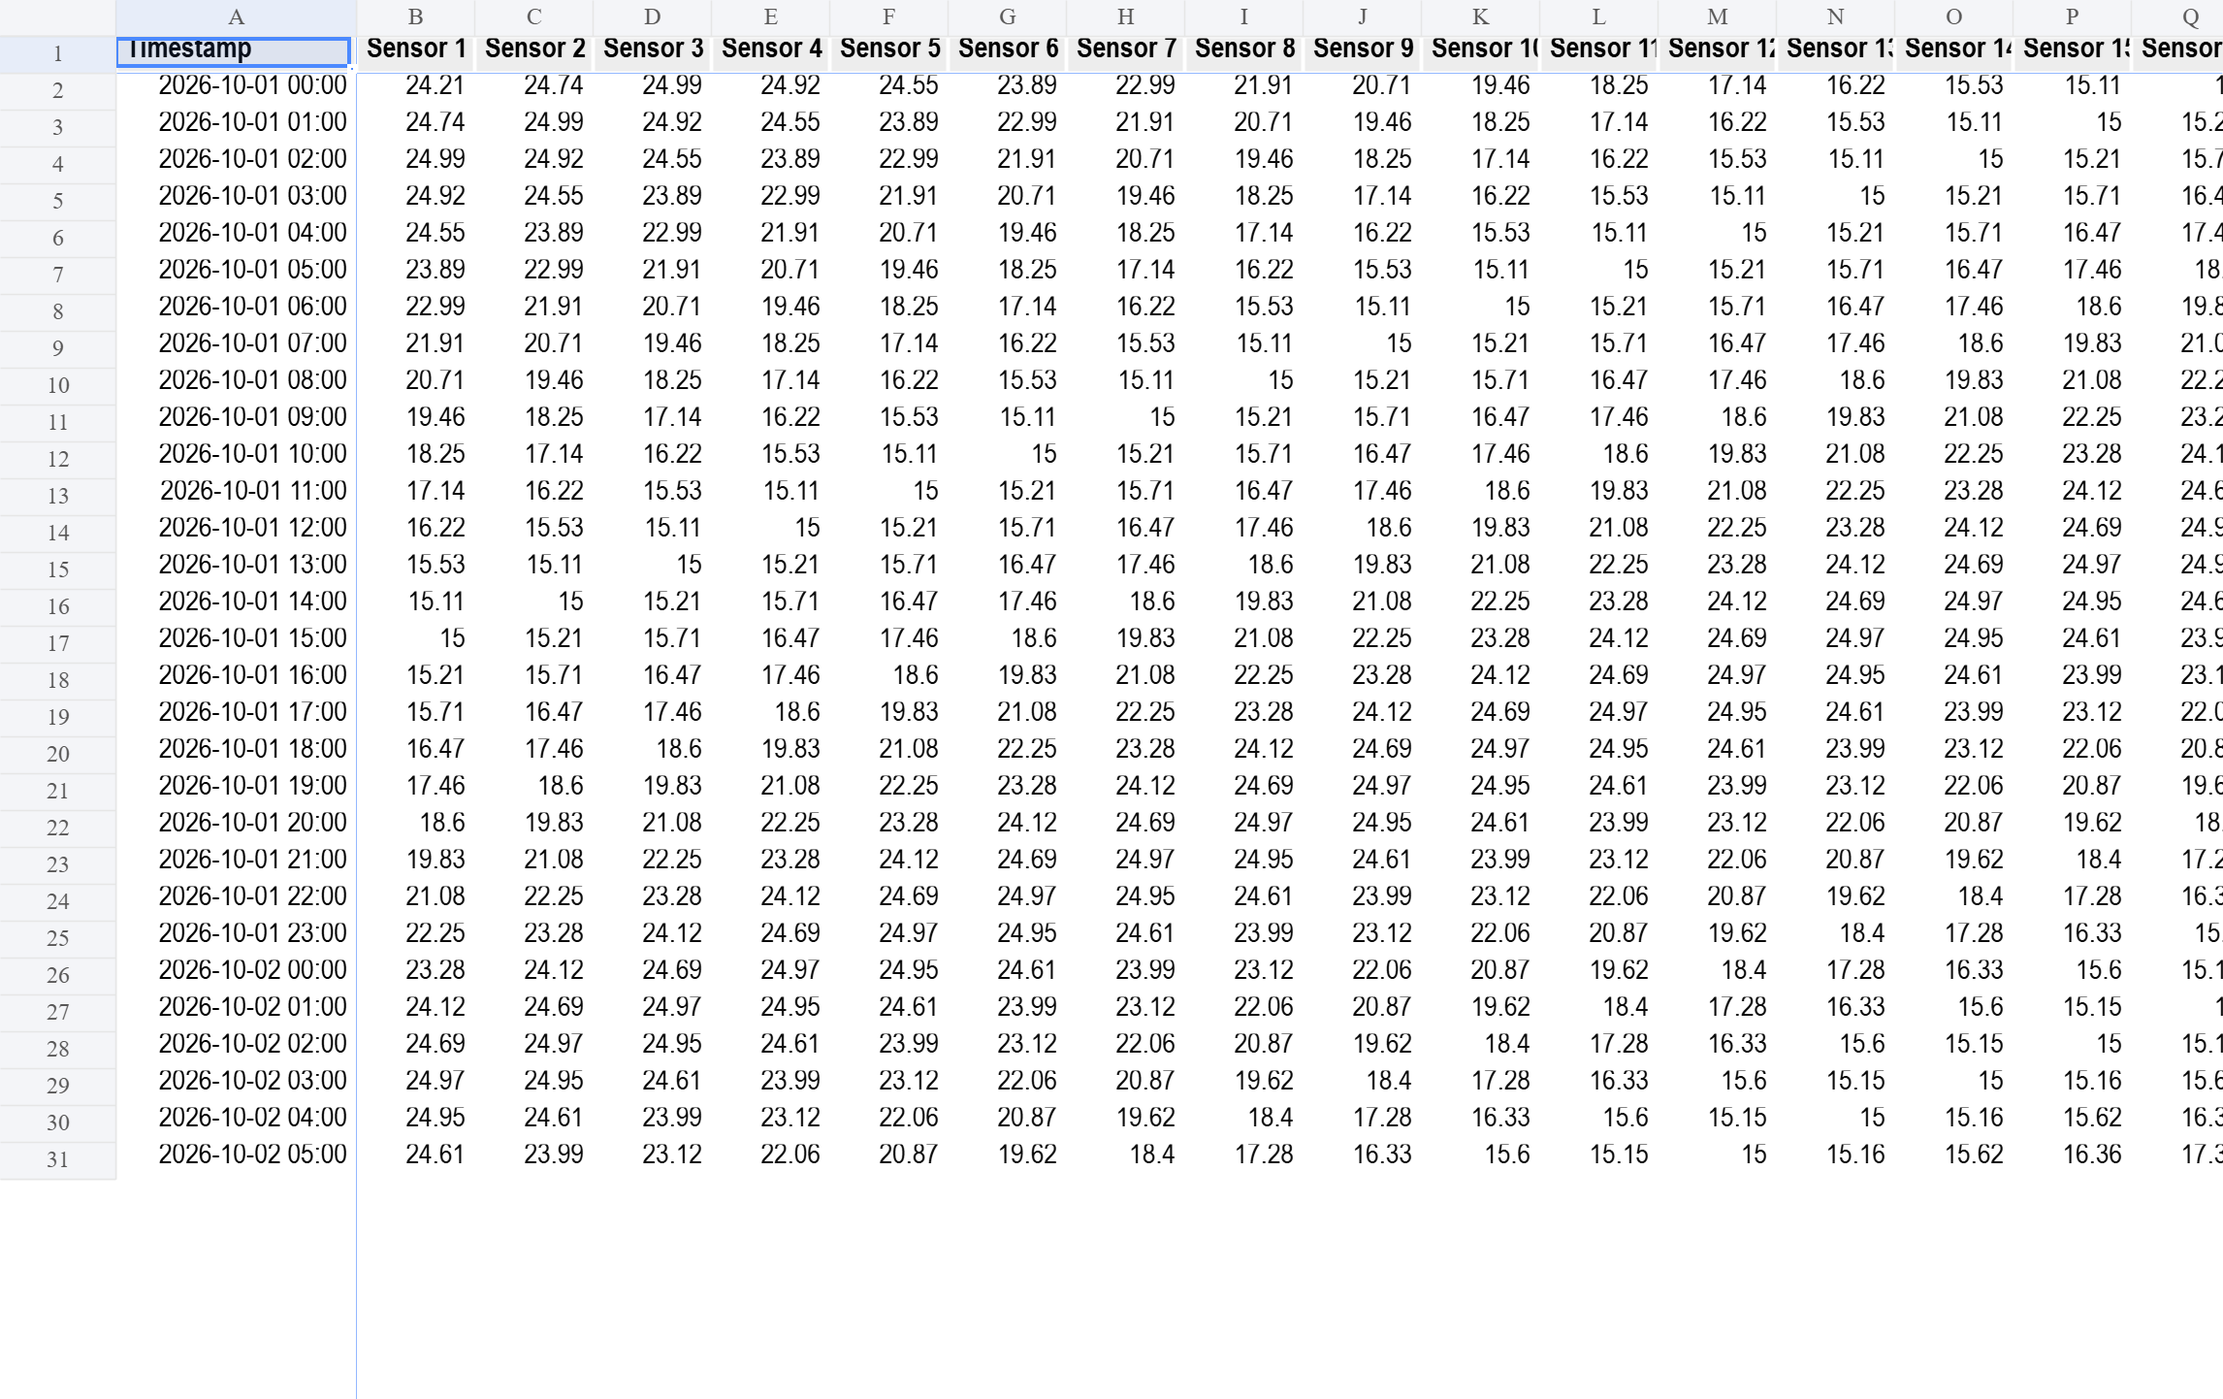
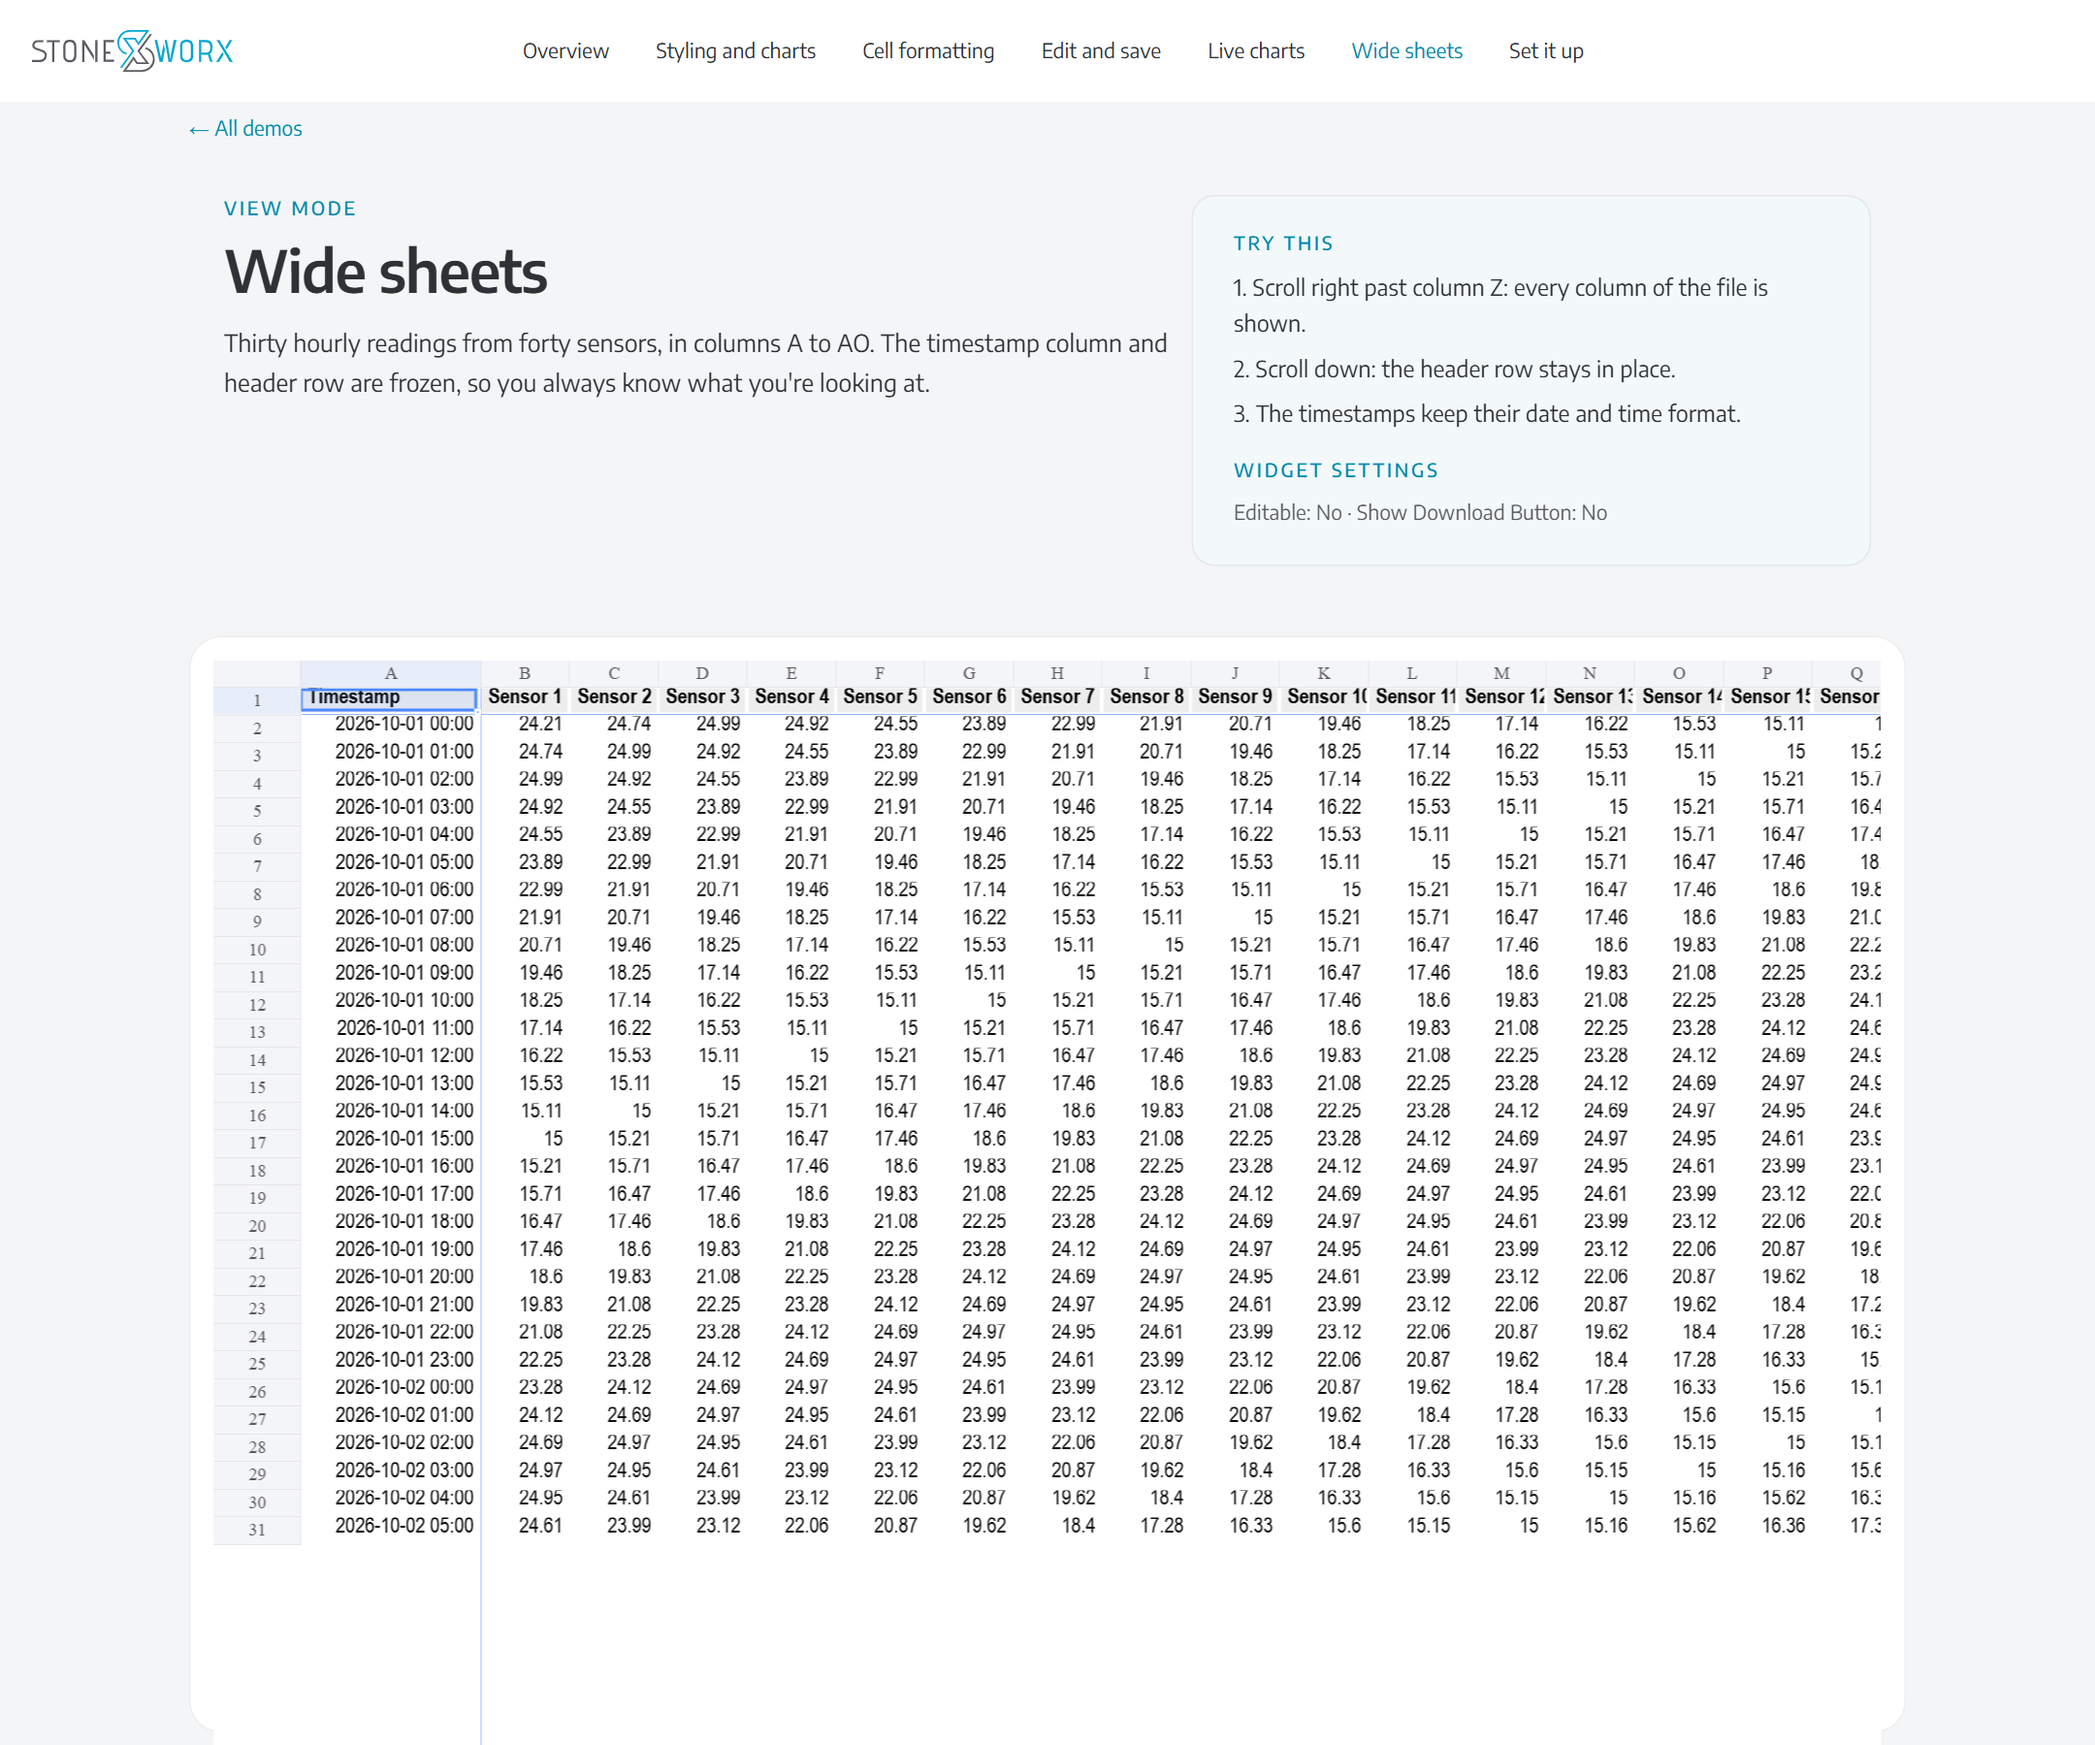
Show the demo app's header and page in the README screenshots

Changed region(s): [[0.0, 0.0, 1.0, 0.8738], [0.9926, 0.6553, 1.0, 0.7802]]

diff --git a/README.md b/README.md
@@ -52,25 +52,25 @@ Taken from the [demo app](https://x-spreadsheet-demo-sandbox.mxapps.io/index.htm
 **Styling and charts.** A read-only sales report with merged headers, number formats, frozen rows, and the workbook's
 column and pie charts placed where Excel put them.
 
-<img alt="Sales report with Excel styling, a column chart and a pie chart" src="images/screenshots/styling-and-charts.png" width="800"/>
+<img alt="Sales report with Excel styling, a column chart and a pie chart" src="images/screenshots/styling-and-charts.png" width="900"/>
 
 **Live charts.** The same report in edit mode. Change a quarter and the SUM totals, shares and charts update as you
 type.
 
-<img alt="Editable sales report with the toolbar and charts" src="images/screenshots/live-charts.png" width="800"/>
+<img alt="Editable sales report with the toolbar and charts" src="images/screenshots/live-charts.png" width="900"/>
 
 **Cell formatting.** Fonts, fills, borders, wrapped text, strikethrough, a hidden column and a bar chart, all read from
 the file.
 
-<img alt="Project plan with coloured status cells, wrapped notes and a bar chart" src="images/screenshots/cell-formatting.png" width="800"/>
+<img alt="Project plan with coloured status cells, wrapped notes and a bar chart" src="images/screenshots/cell-formatting.png" width="900"/>
 
 **Edit and save.** A contact list with Save and Download buttons. Save writes the changes back to the file document.
 
-<img alt="Editable contact list with Save and Download buttons" src="images/screenshots/edit-and-save.png" width="800"/>
+<img alt="Editable contact list with Save and Download buttons" src="images/screenshots/edit-and-save.png" width="900"/>
 
 **Wide sheets.** A sensor log with many columns and a frozen first column and header row.
 
-<img alt="Wide sensor log with a frozen timestamp column" src="images/screenshots/wide-sheets.png" width="800"/>
+<img alt="Wide sensor log with a frozen timestamp column" src="images/screenshots/wide-sheets.png" width="900"/>
 
 ## Usage
 
